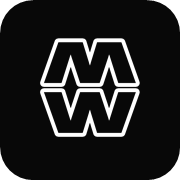
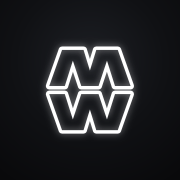
Sposta l'inizio delle card servizi 3,5px a sinistra su mobile; aggiunge TASKS.md

diff --git a/src/app/layout.tsx b/src/app/layout.tsx
@@ -37,6 +37,20 @@ export const metadata: Metadata = {
     "Foiano della Chiana",
     "Arezzo",
   ],
+  category: "Agenzia di marketing digitale",
+  creator: site.legalName,
+  publisher: site.name,
+  robots: {
+    index: true,
+    follow: true,
+    googleBot: {
+      index: true,
+      follow: true,
+      "max-image-preview": "large",
+      "max-snippet": -1,
+      "max-video-preview": -1,
+    },
+  },
   openGraph: {
     type: "website",
     locale: "it_IT",
@@ -46,7 +60,19 @@ export const metadata: Metadata = {
     description: site.description,
     images: [{ url: "/opengraph-image.png", width: 1200, height: 630, alt: site.name }],
   },
-  twitter: { card: "summary_large_image" },
+  twitter: {
+    card: "summary_large_image",
+    title: `${site.name} — The Future is Now`,
+    description: site.description,
+    images: [{ url: "/opengraph-image.png", width: 1200, height: 630, alt: site.name }],
+    site: "@andromediaweb_",
+  },
+  appleWebApp: {
+    capable: true,
+    title: site.name,
+    statusBarStyle: "black-translucent",
+  },
+  formatDetection: { telephone: false, address: false, email: false },
 };
 
 export const viewport: Viewport = {

diff --git a/src/components/site/scroll-sections.tsx b/src/components/site/scroll-sections.tsx
@@ -103,7 +103,7 @@ function MobileServices({ title, standalone }: { title: string; standalone: bool
       </div>
 
       <div
-        className="mt-8 flex snap-x snap-mandatory gap-4 overflow-x-auto pb-3 pl-[calc(1.25rem_+_1mm)] pr-[calc(1.25rem_+_1mm)] scroll-px-[calc(1.25rem_+_1mm)] [-ms-overflow-style:none] [scrollbar-width:none] [&::-webkit-scrollbar]:hidden"
+        className="mt-8 flex snap-x snap-mandatory gap-4 overflow-x-auto pb-3 pl-[calc(1.25rem_+_1mm_-_3.5px)] pr-[calc(1.25rem_+_1mm_-_3.5px)] scroll-px-[calc(1.25rem_+_1mm_-_3.5px)] [-ms-overflow-style:none] [scrollbar-width:none] [&::-webkit-scrollbar]:hidden"
         data-lenis-prevent
       >
         {services.map((s) => (

diff --git a/src/app/manifest.ts b/src/app/manifest.ts
@@ -1,0 +1,19 @@
+import type { MetadataRoute } from "next";
+
+/** Manifest web: icone installabili e colori coerenti col tema scuro del sito. */
+export default function manifest(): MetadataRoute.Manifest {
+  return {
+    name: "Andromedia Web",
+    short_name: "Andromedia",
+    description: "The future is now — Brand Identity, SEO, Social, Ads, AI e Sviluppo Web.",
+    start_url: "/",
+    id: "/",
+    display: "browser",
+    background_color: "#09090b",
+    theme_color: "#09090b",
+    icons: [
+      { src: "/icon-192.png", sizes: "192x192", type: "image/png" },
+      { src: "/icon.png", sizes: "512x512", type: "image/png" },
+    ],
+  };
+}

diff --git a/src/app/(site)/blog/[slug]/page.tsx b/src/app/(site)/blog/[slug]/page.tsx
@@ -45,6 +45,7 @@ export async function generateMetadata({
       card: post.coverUrl ? "summary_large_image" : "summary",
       title,
       description,
+      site: "@andromediaweb_",
       ...(post.coverUrl ? { images: [post.coverUrl] } : {}),
     },
   };

diff --git a/src/lib/site-settings.ts b/src/lib/site-settings.ts
@@ -218,6 +218,7 @@ export async function buildPageMetadata(
       title: title,
       description,
       images: ["/opengraph-image.png"],
+      site: "@andromediaweb_",
     },
   };
 }

diff --git a/TASKS.md b/TASKS.md
@@ -1,0 +1,9 @@
+# Tasks — Andromedia Web 2.0
+
+## Aperti
+- [ ] **Servizi — inizio anticipato:** far partire le card dei servizi un po' prima (arrivo della sezione / inizio animazione).
+
+## Completati
+- [x] Allineamento mobile sezione servizi: gutter inizio/fine identici a 20px (`5ae2cbc`).
+- [x] Prima card a 1mm dalla linea iniziale su mobile (`7ecc052`).
+- [x] Favicon aggiornato, og:image galassia, manifest, meta social completi (`7ecc052`).
